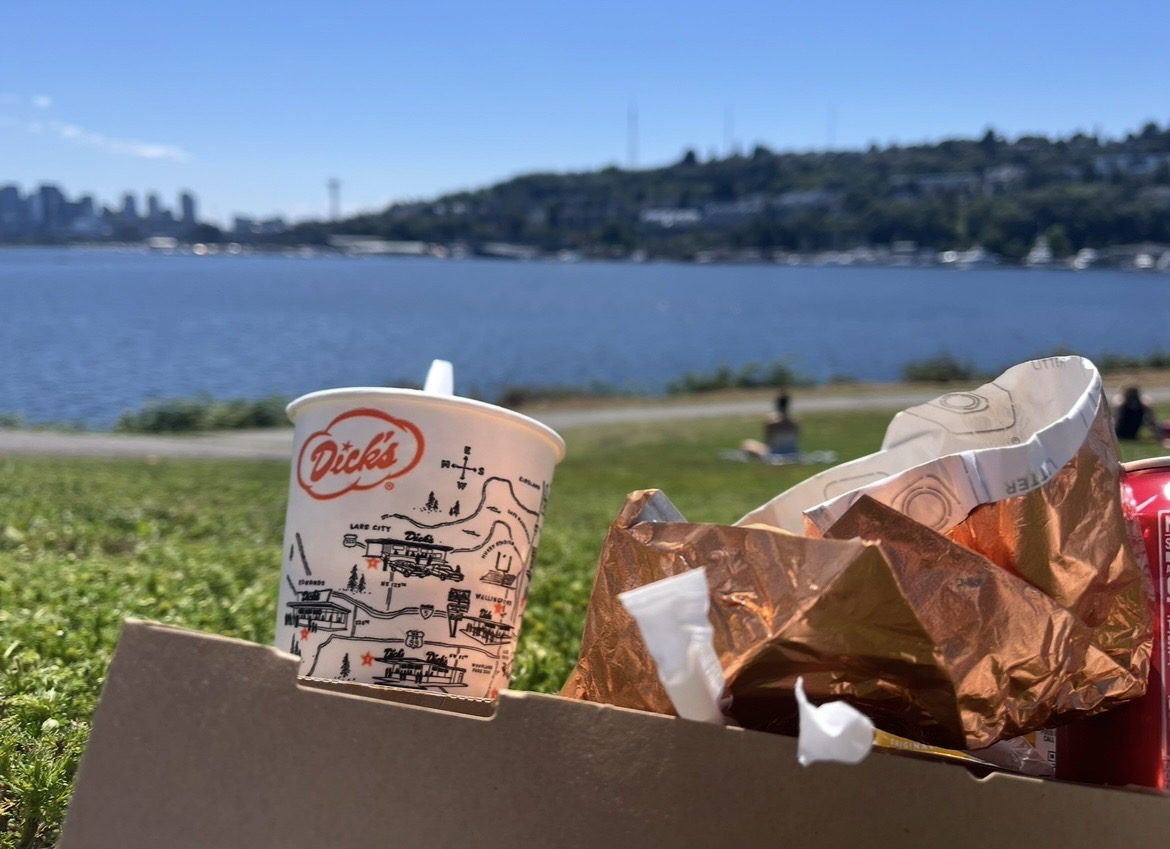
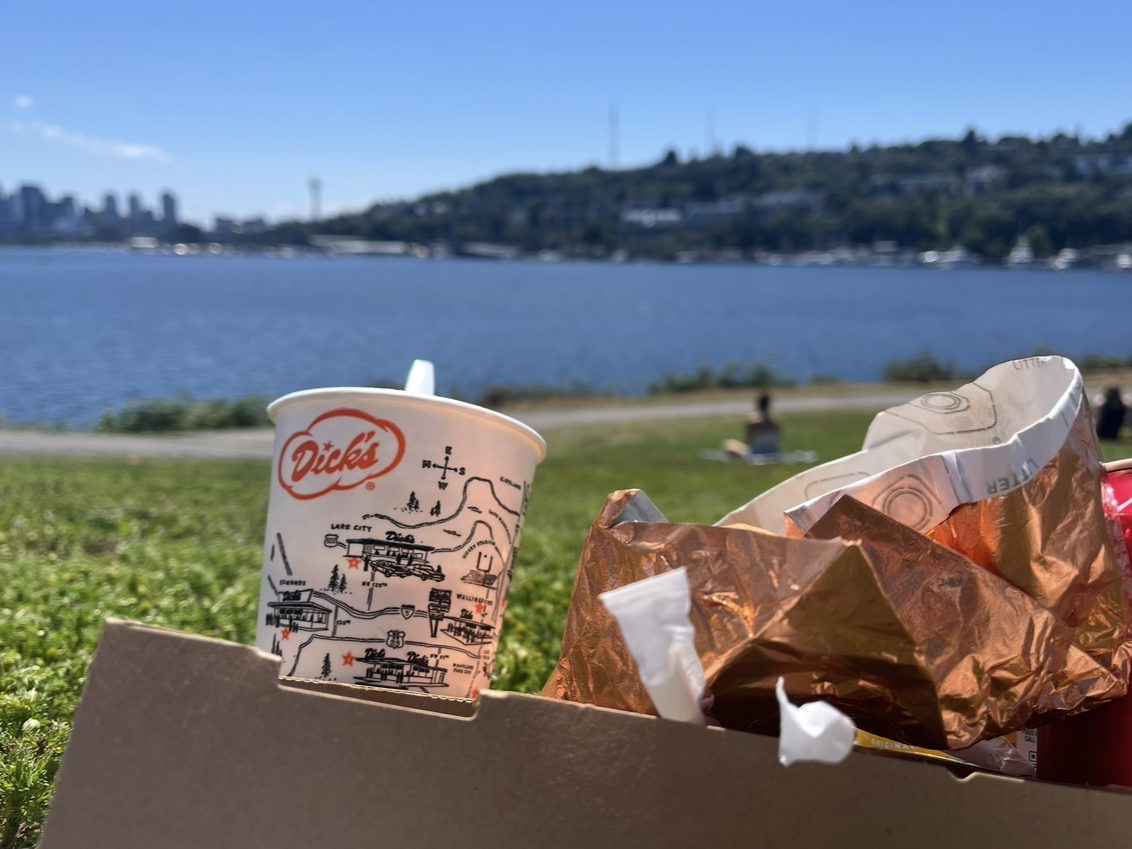
Misc: uniform 4:3 photo grid; drop Antelope Canyon
- Gallery is now a regular grid of 4:3 tiles (3 columns, 2 on phones);
  other shapes are center-cropped so tiles always match
- bin/prep_photo.py crops new photos to 4:3 and strips GPS/EXIF
- Re-cropped the Lake Union photo to 4:3; removed the Antelope Canyon photo

diff --git a/_sass/_academic.scss b/_sass/_academic.scss
@@ -778,13 +778,14 @@ ol.bibliography {
 // ---------------------------------------------------------------------------
 // Misc — photo gallery
 // ---------------------------------------------------------------------------
+// A uniform grid: every tile is 4:3; other shapes are center-cropped to fit.
 .gallery {
-  columns: 3 260px;
-  column-gap: 16px;
+  display: grid;
+  grid-template-columns: repeat(3, minmax(0, 1fr));
+  gap: 16px;
 }
 .gallery-item {
-  break-inside: avoid;
-  margin: 0 0 16px;
+  margin: 0;
   figcaption {
     padding: 8px 4px 0;
     font-size: 14px;
@@ -802,11 +803,13 @@ ol.bibliography {
   border-radius: 16px;
   background: var(--surface-2);
   box-shadow: var(--shadow-1);
+  aspect-ratio: 4 / 3;
   cursor: zoom-in;
   transition: box-shadow 0.35s var(--ease-out), transform 0.35s var(--ease-out);
   img {
     width: 100%;
-    height: auto;
+    height: 100%;
+    object-fit: cover;
     transition: transform 0.7s var(--ease-out);
   }
   &:hover {
@@ -1201,8 +1204,7 @@ ol.bibliography {
   .list-card > li + li::before { right: 18px; left: 70px; }
   .news-body { flex-direction: column; gap: 2px; }
 
-  .gallery { columns: 2 140px; column-gap: 10px; }
-  .gallery-item { margin-bottom: 10px; }
+  .gallery { grid-template-columns: repeat(2, minmax(0, 1fr)); gap: 10px; }
   .gallery-open { border-radius: 12px; }
 
   .contact-band { padding: 44px 20px 48px; border-radius: 24px; }

diff --git a/bin/prep_photo.py b/bin/prep_photo.py
@@ -1,0 +1,33 @@
+"""Prepare a photo for the Misc page.
+
+Usage: python3 bin/prep_photo.py INPUT OUTPUT.jpg
+       (HEIC: convert first with `sips -s format jpeg IN.HEIC --out IN.jpg`)
+
+- applies the EXIF orientation, then drops all metadata (EXIF, GPS, camera info)
+- center-crops to 4:3 landscape so every gallery photo has the same shape
+- resizes to at most 1800x1350 and saves a progressive JPEG at quality 82
+"""
+import sys
+
+from PIL import Image, ImageOps
+
+RATIO = 4 / 3
+
+src, dst = sys.argv[1], sys.argv[2]
+with Image.open(src) as im:
+    im = ImageOps.exif_transpose(im).convert("RGB")
+    w, h = im.size
+    if w / h > RATIO:  # too wide: trim the sides
+        new_w = round(h * RATIO)
+        left = (w - new_w) // 2
+        im = im.crop((left, 0, left + new_w, h))
+    else:  # too tall: trim top and bottom
+        new_h = round(w / RATIO)
+        top = (h - new_h) // 2
+        im = im.crop((0, top, w, top + new_h))
+    im.thumbnail((1800, 1350), Image.LANCZOS)
+    # Re-create the image from raw pixels so no metadata can ride along.
+    clean = Image.new("RGB", im.size)
+    clean.putdata(list(im.getdata()))
+    clean.save(dst, "JPEG", quality=82, optimize=True, progressive=True)
+    print(f"{dst}: {clean.size[0]}x{clean.size[1]}")

diff --git a/LOCAL_PREVIEW.md b/LOCAL_PREVIEW.md
@@ -27,7 +27,7 @@ Open http://127.0.0.1:4000. Check the homepage, Publications, News, and Misc at 
 - Publications and one-sentence summaries: `_bibliography/papers.bib`
 - News: `_news/` (set the icon with `emoji:` in the front matter)
 - Contact and profile links: `_data/socials.yml` (the email is never printed as text: `_includes/mail_attrs.liquid` + `assets/js/site.js` assemble it, and `_includes/email_image.liquid` draws it as outlines — regenerate that file if the address changes)
-- Misc photos: put images in `assets/img/misc/` and list them in `_data/photos.yml`
+- Misc photos: prepare each with `python3 bin/prep_photo.py ORIGINAL assets/img/misc/NAME.jpg` (4:3 crop, GPS/EXIF removed), then list it in `_data/photos.yml`; never commit originals
 - Design tokens, motion and responsive styles: `_sass/_academic.scss`; small interactions: `assets/js/site.js`
 
 Unfinished template posts, project detail pages, books, and unused demo pages are excluded from the generated site, while their source files remain available in the repository.
